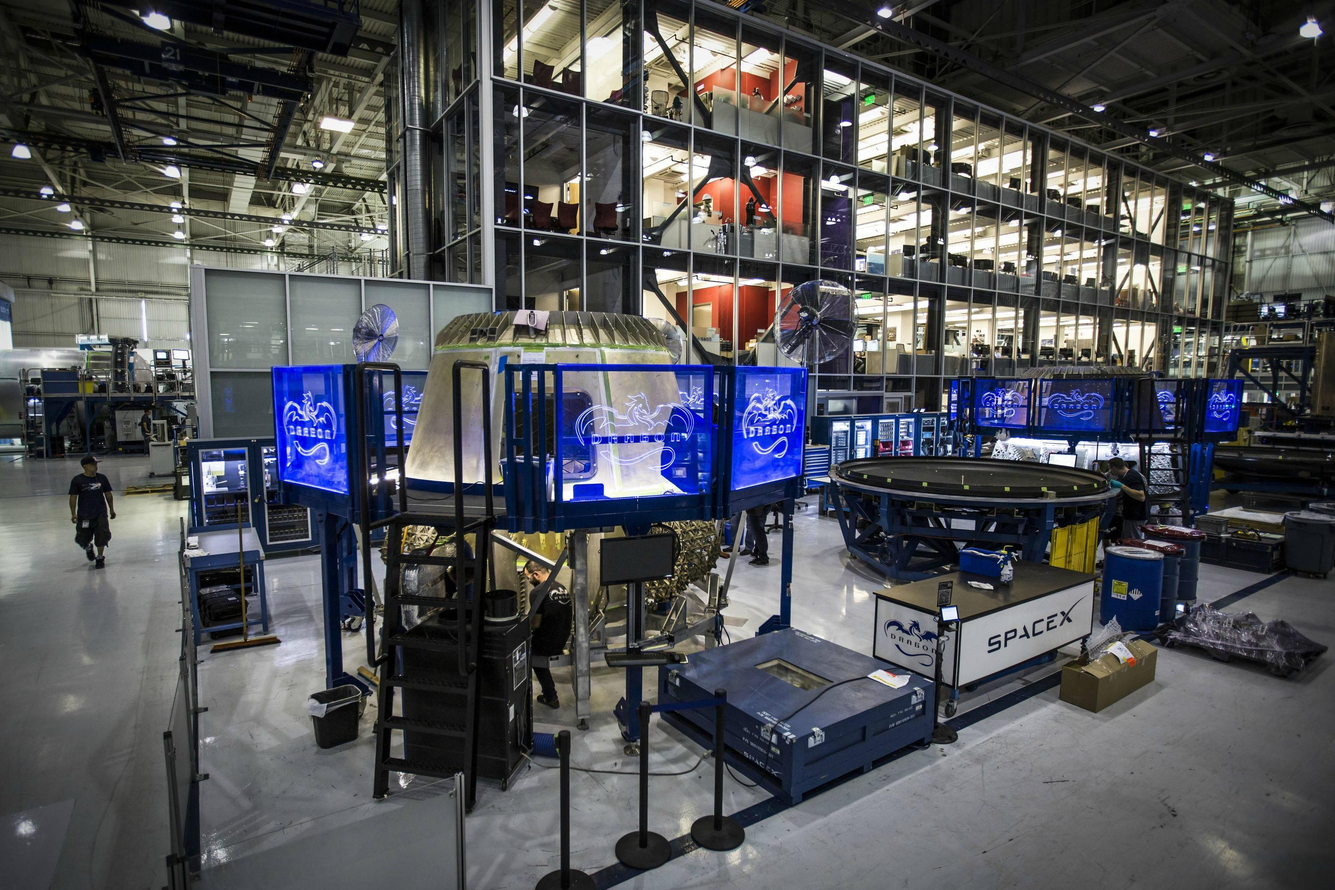
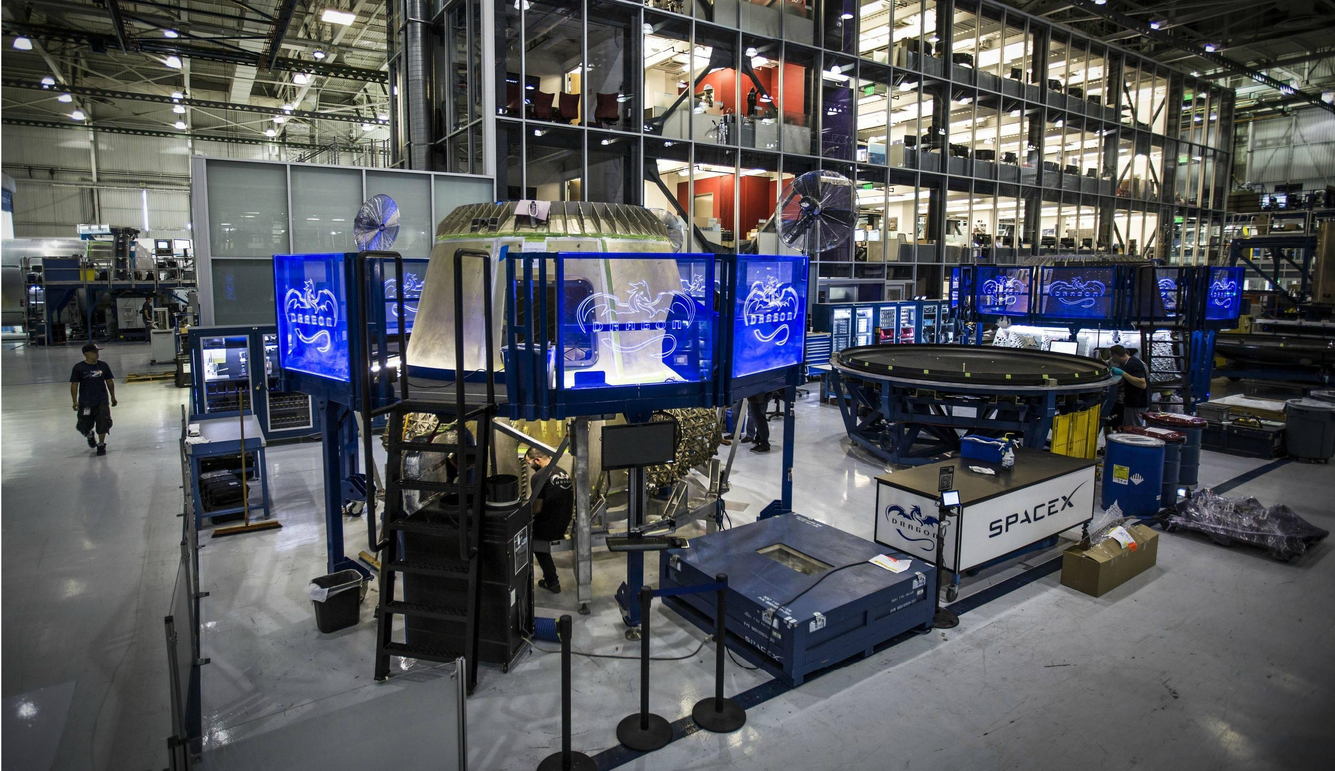
eliminated carousel bounce by cropping pictures, removed maxheight css

diff --git a/_sass/custom.scss b/_sass/custom.scss
@@ -41,18 +41,6 @@ body {
    }  
 }
 
-
-/* Minimizes "bounce" of carousel by fixing maximum height */
-.carousel {
-  max-height: 600px;
-  overflow: hidden;
-
-  .item img {
-    width: 100%;
-    height: auto;
-  }
-}
-
 .experience {
   h1 {
     text-align: center;
